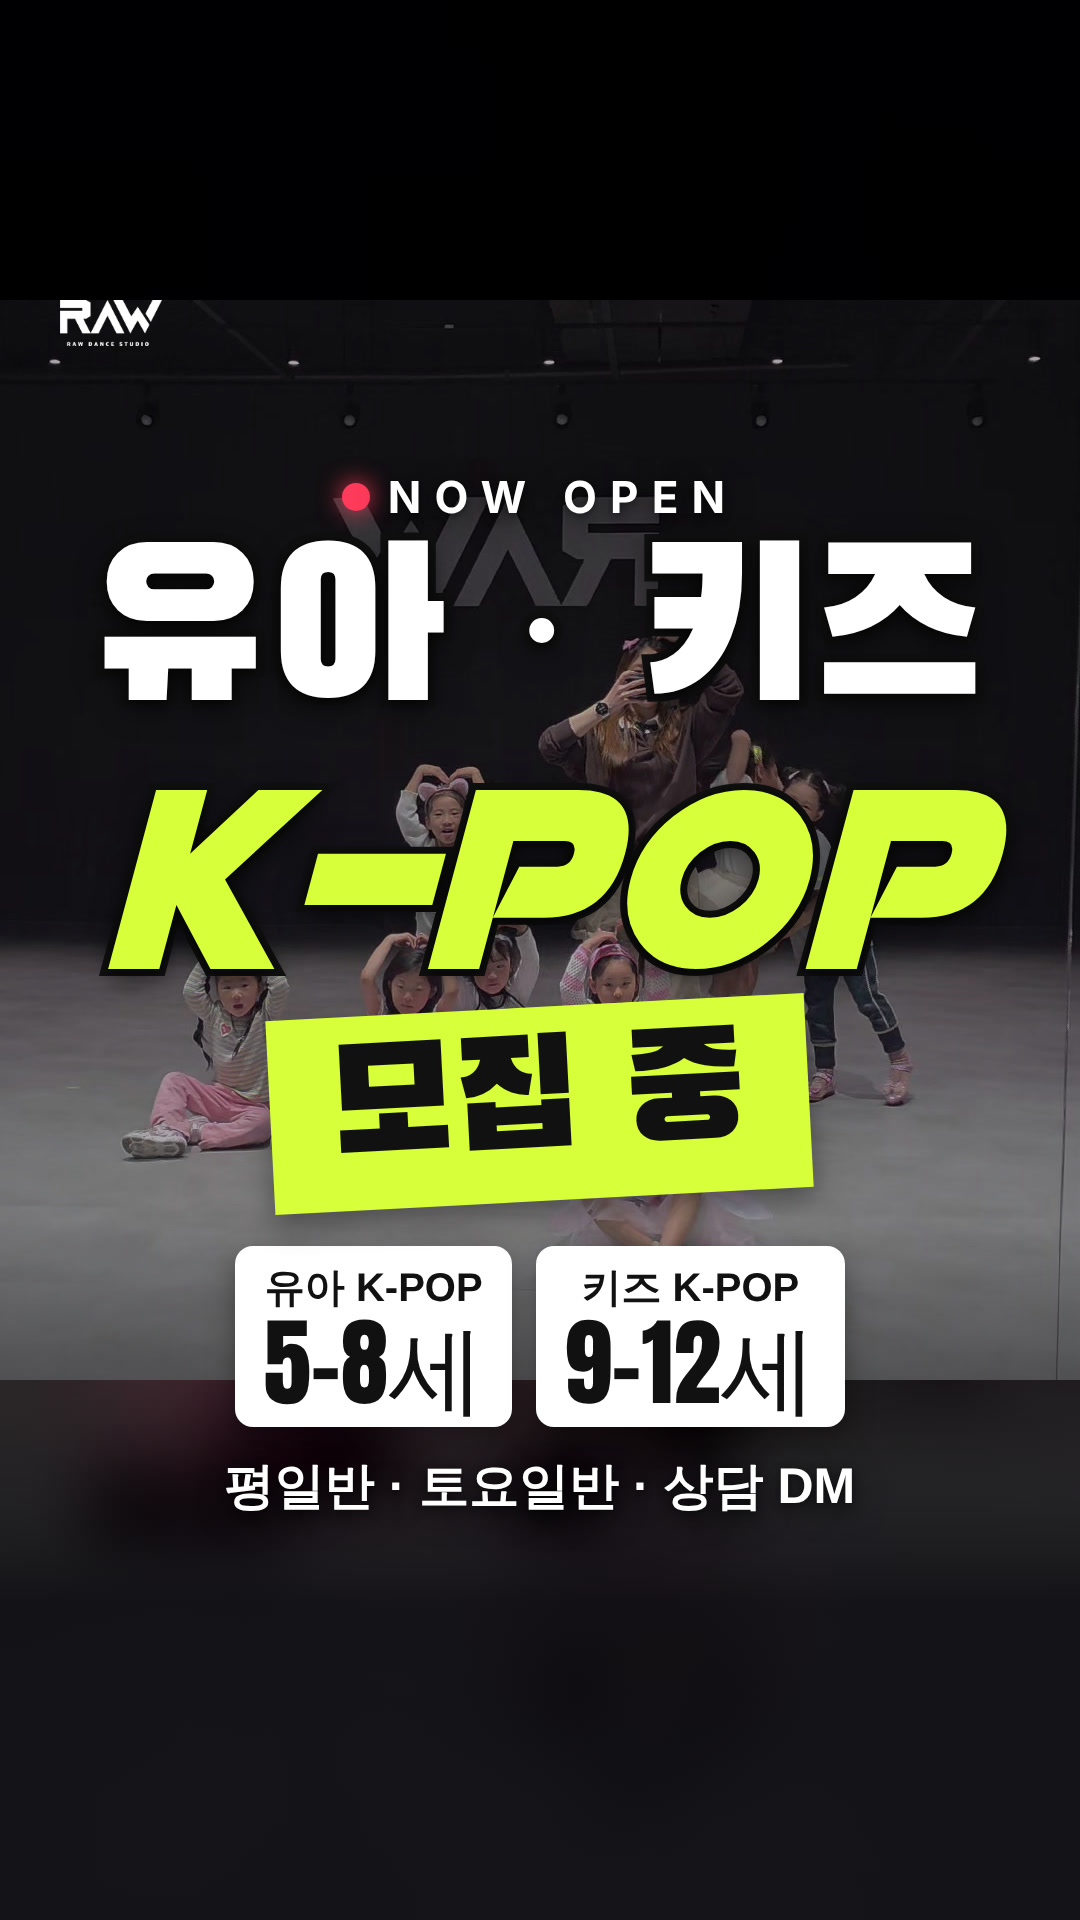
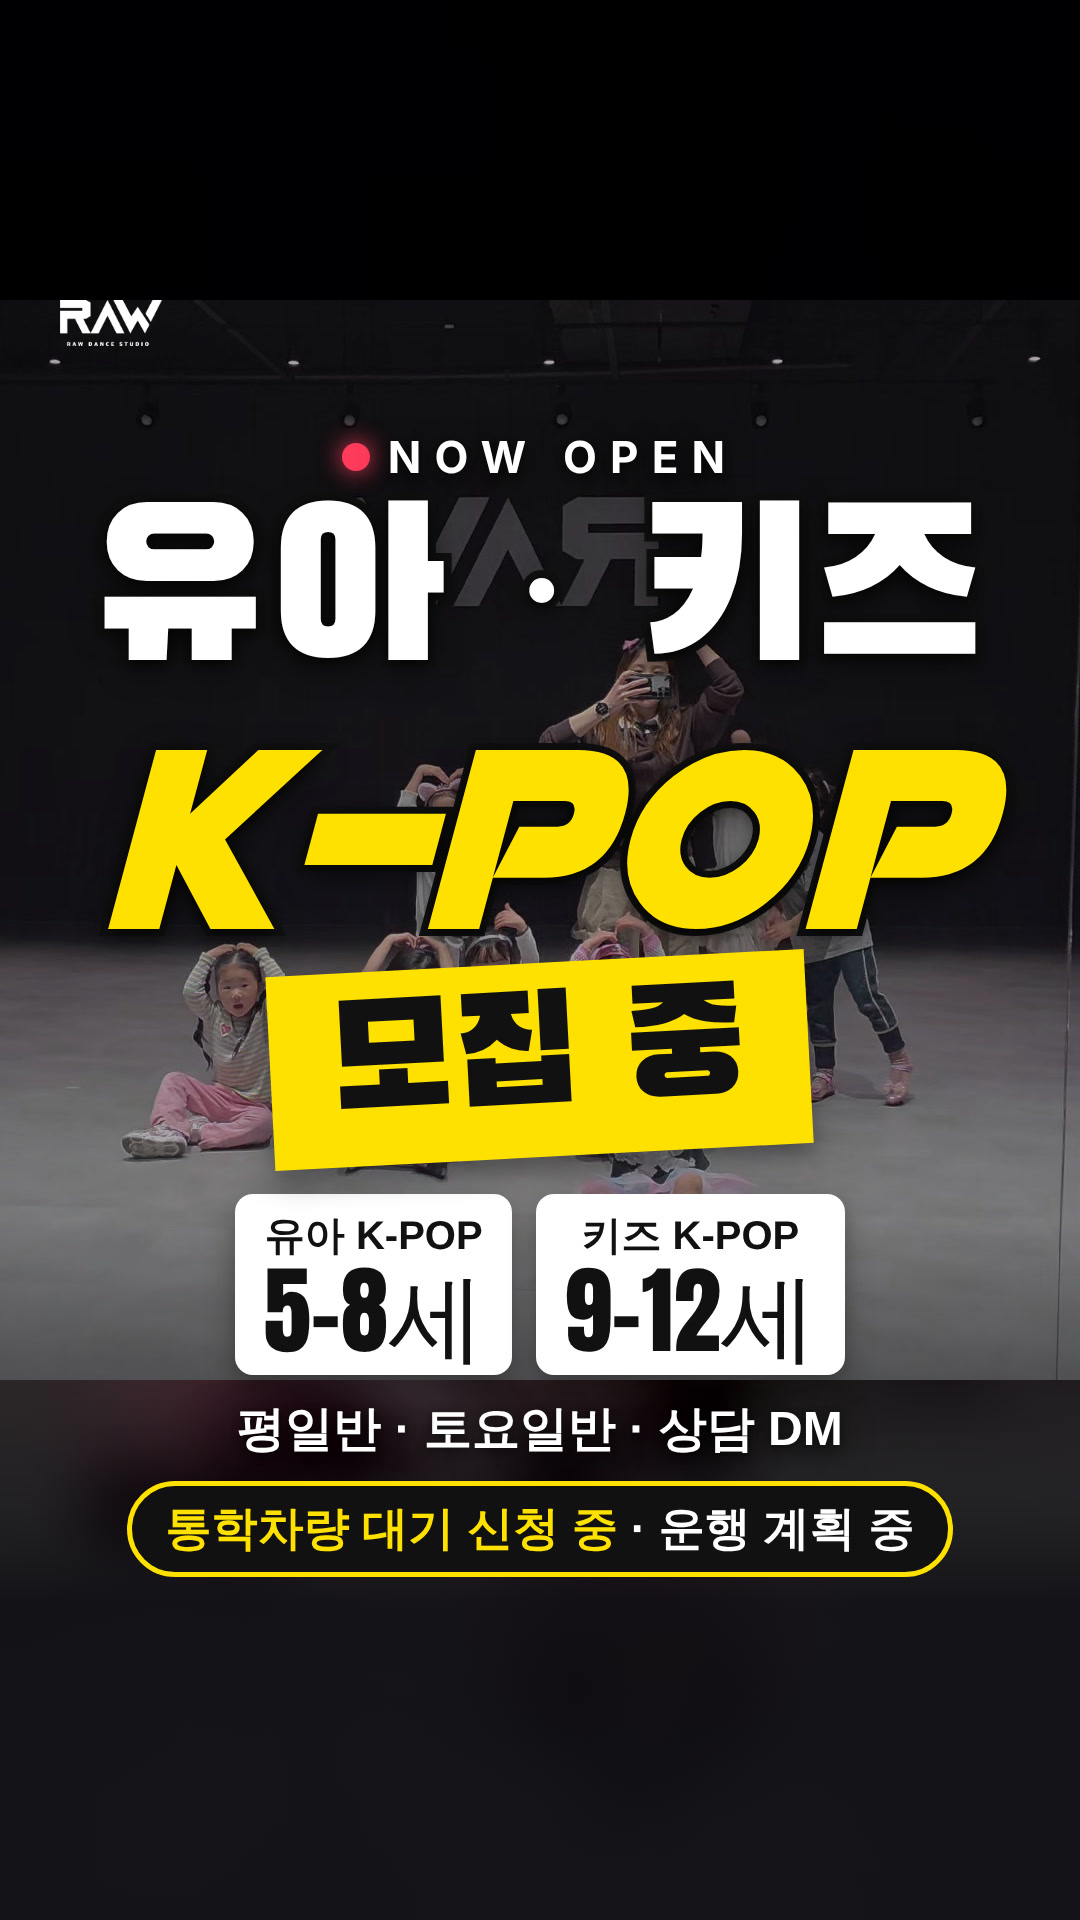
K-POP 광고 B2 최종 커버: C안 노랑 + 통학차량 대기 신청 (검수 통과)
Claude-Session: https://claude.ai/code/session_01CMPXWNa21Fqq6srPZpa27D

Changed region(s): [[0.0917, 0.2188, 0.9472, 0.8125], [0.4889, 0.2812, 0.5194, 0.3438]]

diff --git a/content/2026-11-20_kpop-kids-reels3/thumb.html b/content/2026-11-20_kpop-kids-reels3/thumb.html
@@ -39,16 +39,17 @@
   </div>
 </div>
 <div id="C" style="display:none">
-  <!-- 원장님 11-22 "자막으로 애들 얼굴 가려도 돼, 유아·키즈 K-POP 모집이 두드러지게" -->
+  <!-- 원장님 11-22 "애들 얼굴 가려도 돼, 유아·키즈 K-POP 모집 두드러지게" → "노랑으로, 통학차량 대기도 어디 있으면" -->
   <img class="a bg" src="bg_Cblur.jpg"><img class="a sq" src="bg_C.jpg" style="top:300px"><div class="a" style="left:0;top:300px;width:1080px;height:1080px;background:rgba(8,7,12,.35)"></div>
   <div class="a grad" style="height:700px"></div><img class="a logo" src="logo.png">
-  <div class="a sh" style="left:0;right:0;top:470px;text-align:center">
+  <div class="a sh" style="left:0;right:0;top:430px;text-align:center">
     <div class="now" style="font-size:44px"><i></i>NOW OPEN</div>
     <div style="margin-top:10px;font:400 210px/1 'Black Han Sans';-webkit-text-stroke:16px #111;paint-order:stroke fill">유아 · 키즈</div>
-    <div class="big" style="font-size:262px;line-height:.85;color:#D7FF3A;-webkit-text-stroke:14px #111;paint-order:stroke fill;margin-top:6px">K-POP</div>
-    <div class="lime" style="margin-top:34px;font:400 150px/1.05 'Black Han Sans';padding:18px 60px">모집 중</div>
-    <div class="cards" style="margin-top:46px"><div><b>유아 K-POP</b><span>5–8세</span></div><div><b>키즈 K-POP</b><span>9–12세</span></div></div>
-    <div style="margin-top:26px;font-size:50px;font-weight:900">평일반 · 토요일반 · 상담 DM</div>
+    <div class="big" style="font-size:262px;line-height:.85;color:#FFE100;-webkit-text-stroke:14px #111;paint-order:stroke fill;margin-top:6px">K-POP</div>
+    <div class="lime" style="background:#FFE100;color:#111;margin-top:30px;font:400 150px/1.05 'Black Han Sans';padding:18px 60px">모집 중</div>
+    <div class="cards" style="margin-top:38px"><div><b>유아 K-POP</b><span>5–8세</span></div><div><b>키즈 K-POP</b><span>9–12세</span></div></div>
+    <div style="margin-top:22px;font-size:48px;font-weight:900">평일반 · 토요일반 · 상담 DM</div>
+    <div style="margin-top:20px;display:inline-block;background:#111;border:5px solid #FFE100;border-radius:50px;padding:12px 34px;text-shadow:none;font-size:46px;font-weight:900"><span style="color:#FFE100">통학차량 대기 신청 중</span> · 운행 계획 중</div>
   </div>
 </div>
 <script>window.show=v=>{document.getElementById(v).style.display='';};</script>

diff --git a/content/2026-11-20_kpop-kids-reels3/instagram.md b/content/2026-11-20_kpop-kids-reels3/instagram.md
@@ -13,6 +13,7 @@
 > compliance-checker B2 수정본 검수: 수정 후 통과 (2026-11-20). 문구는 수정할 것 없음 / ① 3~14초 YUNI(IMG_1053)·민경쌤 전문반(IMG_0620·1076·0415) 교차 6컷, "전문반 수업" 표시 삭제, IMG_1076 다시 사용 = **원장님 결정(2026-11-20)**으로 기록. 글자 "쌤이 먼저 보여주고"·"한 동작씩 차근차근"은 수업 방식 설명이라 과장·사실 문제 없음(MINKYUNG은 화·목 유아·키즈 담당이라 쌤 소개로 맞음). 최소 조치: 전문반 3컷은 지금처럼 쌤 쪽 확대 유지(중·고등 학생 얼굴이 크게 보이지 않게) + 새로 들어간 IMG_0415까지 포함해 교복·체육복 학교명이 보이지 않는지 확인 ② 정보 3번째 화면 "NOW OPEN / 모집 중 / 유아 · 키즈 K-POP반 / 평일반 (월·수 / 화·목) · 토요일반 / 상담 DM" = 가이드의 모집 중인 반·요일과 일치, 통과. 통학차량은 캡션에 조건("운행 확정 아님")과 함께 남아 있어 통과, 위치는 끝 화면·캡션에 있음 ③ 가사 있는 곡: 인스타 앱 음원 목록 곡(아이돌 곡 포함)은 유료 광고에 쓰지 않고, 상업용 라이선스에 "유료 광고(paid ads) 사용"이 포함된 곡만 쓰며 라이선스 캡처 보관. 유아·키즈 광고라 가사에 욕설·선정·폭력 표현이 없는지 확인하고, 가사 때문에 화면 말풍선·글자와 뜻이 섞이지 않는지 볼 것. 곡 제목·가수명은 기존 규칙대로 표기하지 않음 / 원장님 확인 남은 것: 학교명(IMG_0620·1076·0415), 아이돌 안무 예외 승인(전문반 영상 포함), 새 곡 라이선스 캡처. 해결 전 광고 집행 보류
 > compliance-checker B2 3차 검수: 통과 (2026-11-20) — 새 문구 4건 수정 없음: "아이돌 안무로 신나게"(11-19 통과 문구, 키즈 핵심 메시지와 맞음) / "처음이어도 괜찮아요"(안심 문구, 보장·최상급 아님) / 통학차량 화면(11-17·11-19 통과 표현 "운행 계획 중 · 신청 인원이 모이면 운행 시작" 그대로 유지, "대기 신청"이라 운행 확정 오인 없음, 노선·차량비·"운행 확정 아님"은 캡션에 있음) / 반 모집 화면(나이·평일반·토요일반 = 가이드 일치, 정확한 교습비는 캡션에 있음). 아이돌 안무(instagram-ads.md B2 예외 기록)·학교명("안 보여")은 원장님 확인 끝남, Street Fighters는 B2에서 빠짐 → 광고 집행 전 남은 것: Private Party 유료 광고 라이선스 캡처 1건(기존 대기 항목)
 > compliance-checker B2 자막 보강 검수: 통과 (2026-11-20) — 위 큰 영문·아래 연두 띠 5세트(K1·K2·T1·T2·T3) 수정 없음: TOGETHER·K-POP DANCE·TEACHER·STEP BY STEP·BEGINNER OK는 설명형 영문이라 최상급·보장 표현 아님 / "나이에 맞는 반에서" = 유아 5~8세·키즈 9~12세 반 구분과 맞음 / "유아 · 키즈 K-POP반"은 모집 중인 반 이름과 맞음 / "T. YUNI · T. MINKYUNG" = 평일 유아·키즈 담당 강사, 시간표 표기와 같음(쌤 컷 교차 구간에 둘 다 표시해 오인 없음) / "기본기까지 탄탄하게"(A 통과 문구, 키즈 핵심 메시지)·"첫 춤을 재밌게"(유아 핵심 메시지) 가이드 그대로 / 이모지·오탈자 없음. 광고 집행 전 남은 것은 기존과 같음: Private Party 유료 광고 라이선스 캡처 1건
+> compliance-checker B2 커버 C안 검수: 통과 (2026-11-22) — 수정 없음: "NOW OPEN / 유아 · 키즈 / K-POP / 모집 중"(11-20 통과 반 모집 화면과 같은 표현) / 유아 5–8세·키즈 9–12세·평일반·토요일반 = 가이드 일치(11-19 원장님) / 통학차량 한 줄 "통학차량 대기 신청 중 · 운행 계획 중"은 커버로 충분: "대기"+"계획 중" 두 신호로 운행 확정 오인 없음, 11-17·11-19·11-20 통과 표현의 핵심("대기 신청", "운행 계획 중")을 그대로 줄인 것이고 "신청 인원이 모이면 운행 시작"·노선·차량비·"운행 확정 아님"은 영상 28.5~33초 화면과 캡션에 있음 / 교습비는 캡션에 정확한 금액 있음(커버는 썸네일이라 생략 가능) / 배경 얼굴 가림은 원장님 허락, 재원생이라 초상권 추가 확인 불필요, 학교명·교복 안 보임 / 이모지·오탈자 없음, 글자 전부 프로필 격자(가운데 4:5) 안. 광고 집행 전 남은 것은 기존과 같음: Private Party 유료 광고 라이선스 캡처 1건
 
 ## A. TEACHER — 쌤 소개형 · 38초 · `KPOP_reel_A.mp4` (Private Party 120 BPM)
 | 시간 | 화면 | 글자 |
@@ -103,6 +104,6 @@
 캡션 첫 줄: `엄마, 나도 춤 배우고 싶어! — 유아·키즈 K-POP반 모집` (아래는 공통 캡션 그대로)
 
 ## B2 커버(썸네일) 3안 — 2026-11-22
-- `thumb_A.jpg` 말풍선 + K-POP KIDZ (키즈반 아이 웃는 장면) / `thumb_B.jpg` 하트 포즈 유아 + "NOW OPEN 모집 중" / `thumb_C.jpg` 하트 단체샷 위에 "NOW OPEN / 유아 · 키즈 / K-POP / 모집 중 / 유아 5–8세 · 키즈 9–12세 / 평일반 · 토요일반 · 상담 DM" (원장님 11-22 "애들 얼굴 가려도 돼, 유아·키즈 K-POP 모집 두드러지게")
+- `thumb_A.jpg` 말풍선 + K-POP KIDZ (키즈반 아이 웃는 장면) / `thumb_B.jpg` 하트 포즈 유아 + "NOW OPEN 모집 중" / `thumb_C.jpg` 하트 단체샷 위에 "NOW OPEN / 유아 · 키즈 / K-POP / 모집 중 / 유아 5–8세 · 키즈 9–12세 / 평일반 · 토요일반 · 상담 DM / 통학차량 대기 신청 중 · 운행 계획 중" — 색은 노랑 (원장님 11-22 "애들 얼굴 가려도 돼, 유아·키즈 K-POP 모집 두드러지게", "노랑으로, 통학차량 대기도") → **최종 커버**
 - 1080×1920, 중요한 글자는 프로필 격자(가운데 4:5)에 들어가게. 만드는 법: `thumb.html` (배경 장면은 영상 원본에서 가장 선명한 프레임)
 - 글자는 영상에서 검수 통과한 문구만 씀
